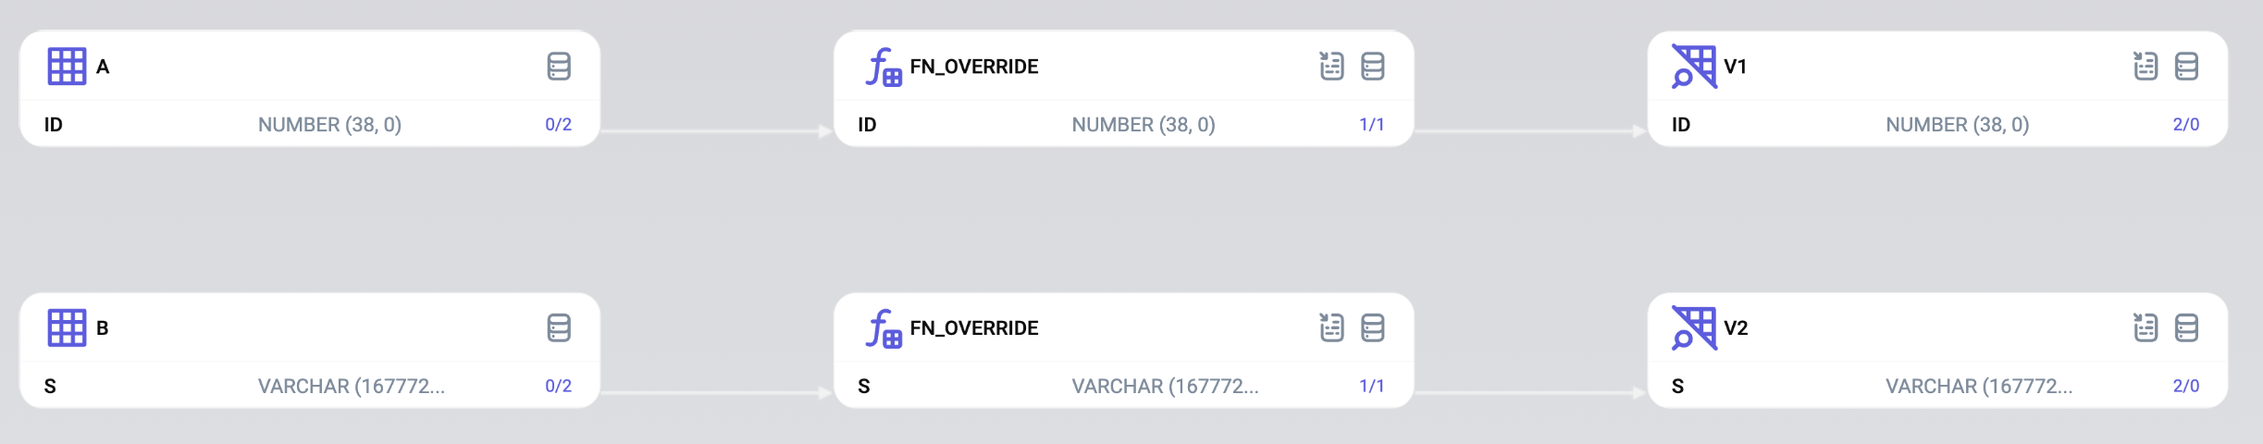
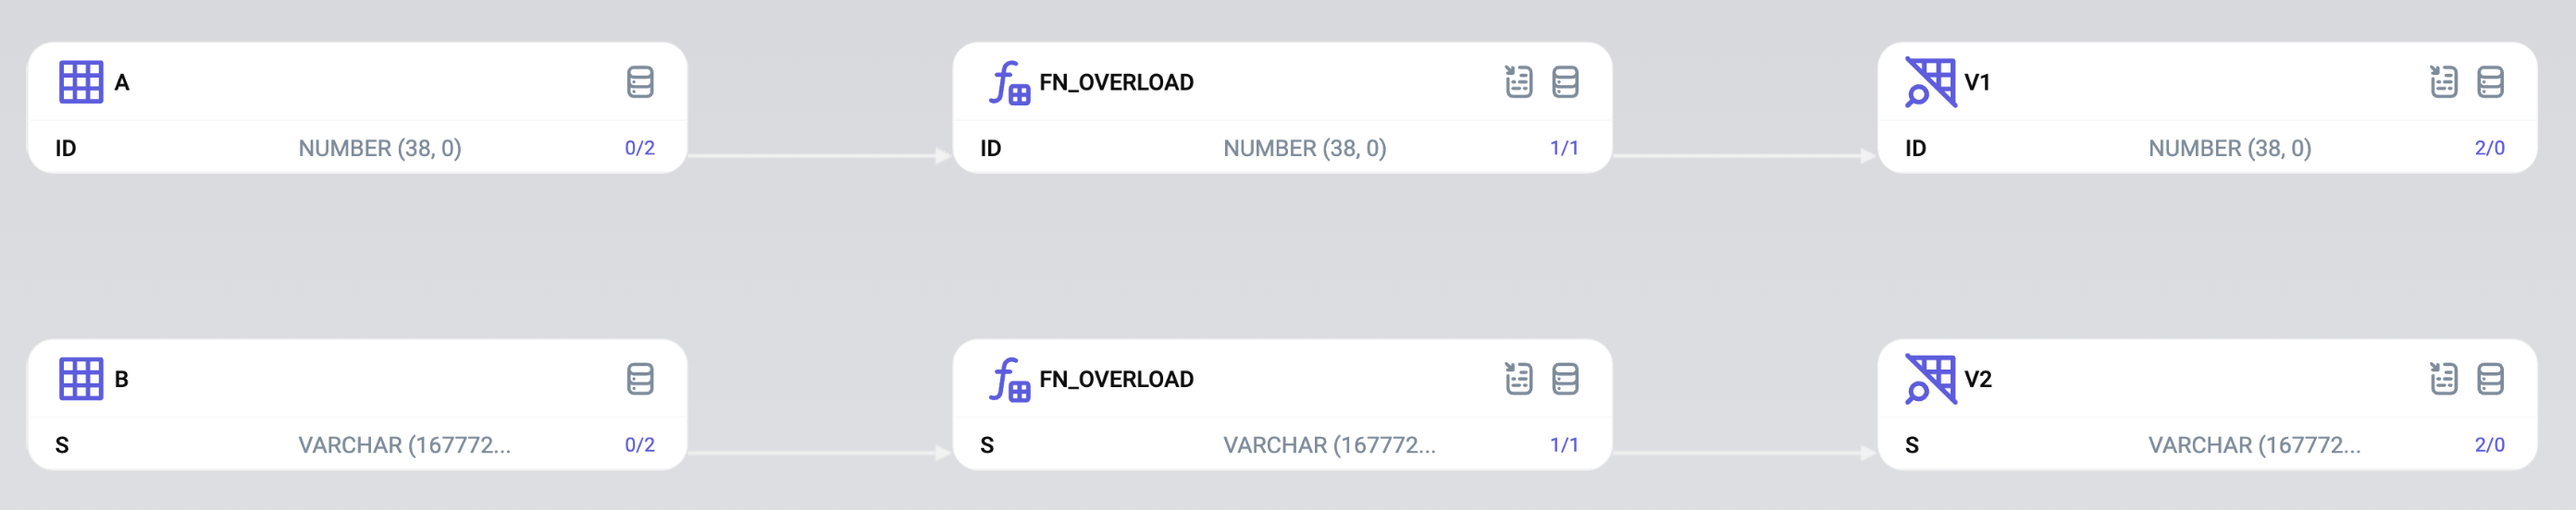
fix names

diff --git a/README.MD b/README.MD
@@ -377,13 +377,13 @@ Let's create:
 CREATE TABLE A(ID INT);
 CREATE TABLE B(S STRING);
 
-CREATE OR REPLACE FUNCTION fn_override ( _id number )
+CREATE OR REPLACE FUNCTION fn_overload ( _id number )
   RETURNS TABLE (id int)
   AS 'select id from a where id > _id'
 ;
 
 
-CREATE OR REPLACE FUNCTION fn_override ( _s string )
+CREATE OR REPLACE FUNCTION fn_overload ( _s string )
   RETURNS TABLE (s string)
   AS 'select s from b where s != _s'
 ;
@@ -394,10 +394,10 @@ The first one has **Table A as a source**, and the second one **Table B**.
 Now let's create VIEWs depending on these functions:
 ```sql
 CREATE VIEW V1 AS
-SELECT * FROM TABLE(fn_override(1));
+SELECT * FROM TABLE(fn_overload(1));
 
 CREATE VIEW V2 AS
-SELECT * FROM TABLE(fn_override('1'));
+SELECT * FROM TABLE(fn_overload('1'));
 ```
 
 Here is the **[Dwh.dev](https://dwh.dev)** result:
